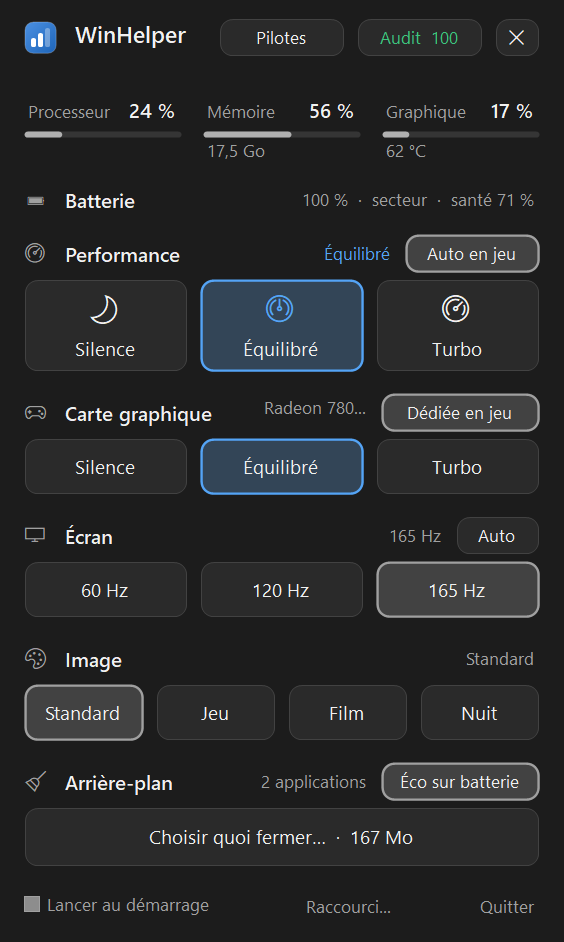
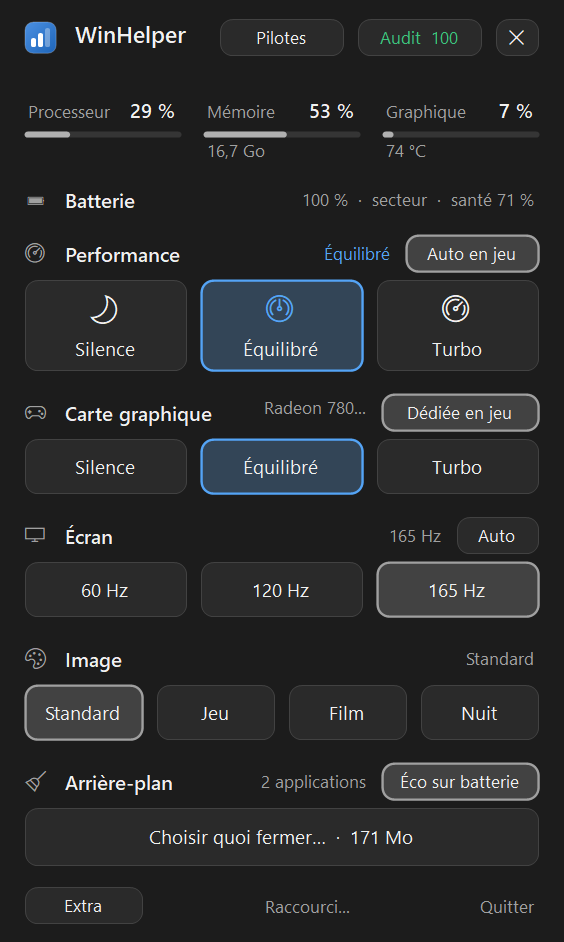
README : bouton Extra, mise à jour en un clic (0.7.0)

diff --git a/README.md b/README.md
@@ -6,7 +6,7 @@ Un petit panneau de contrôle pour Windows, pensé pour jouer : modes de perform
 
 **[Télécharger WinHelper.exe](https://github.com/badb0ol/WinHelper/releases/latest/download/WinHelper.exe)**
 
-Un seul fichier d'environ 220 Ko. Rien à installer, aucun service en arrière-plan. WinHelper tourne sans droits administrateur ; seuls deux réglages avancés, que vous choisissez vous-même, demandent l'autorisation de Windows.
+Un seul fichier d'environ 235 Ko. Rien à installer, aucun service en arrière-plan. WinHelper tourne sans droits administrateur ; seuls deux réglages avancés, que vous choisissez vous-même, demandent l'autorisation de Windows.
 
 ## Démarrer
 
@@ -28,11 +28,12 @@ Le panneau s'ouvre en bas à droite de l'écran, au-dessus des autres fenêtres.
 | **Image** | Standard, Jeu (ombres éclaircies), Film et Nuit (couleurs plus chaudes) |
 | **Arrière-plan** | Liste des applications qui tournent en fond ; vous cochez celles à fermer. Sur un portable, « Éco sur batterie » les met en mode efficacité |
 | **Pilotes** | Pilotes installés, mises à jour proposées par Windows Update, et nouvelle version de WinHelper |
+| **Extra** | Version de WinHelper et mise à jour, lancement avec Windows, réglages avancés |
 | **Audit** | Vérifie les oublis classiques : profil mémoire XMP/EXPO, écran sous sa fréquence maximale, écran branché sur la carte mère, etc. |
 
 ## Bon à savoir
 
-- **WinHelper rend ce qu'il change.** Les modes s'appliquent tant que WinHelper tourne. Quand vous le quittez ou éteignez le PC, Windows et le pilote graphique retrouvent leurs réglages d'avant ; le mode choisi revient au lancement suivant. Cochez « Lancer au démarrage » pour le garder en permanence.
+- **WinHelper rend ce qu'il change.** Les modes s'appliquent tant que WinHelper tourne. Quand vous le quittez ou éteignez le PC, Windows et le pilote graphique retrouvent leurs réglages d'avant ; le mode choisi revient au lancement suivant. Cochez « Lancer WinHelper avec Windows », dans Extra, pour le garder en permanence. Masqué, le panneau continue d'appliquer vos réglages depuis la zone de notification ; seul « Quitter » arrête WinHelper.
 - **Turbo automatique en jeu.** Quand un jeu démarre, WinHelper passe en Turbo, puis revient à votre mode quand vous le quittez. Sur batterie, rien ne change. Le bouton « Auto en jeu » l'active ou le coupe.
 - **Un mode pour le secteur, un pour la batterie.** Le mode choisi sur batterie revient quand vous débranchez, celui du secteur quand vous rebranchez.
 - **Une couleur par mode.** Vert pour Silence, bleu pour Équilibré, rouge pour Turbo. L'icône de la zone de notification prend la couleur du mode en cours et allume une, deux ou trois barres.
@@ -43,14 +44,15 @@ Le panneau s'ouvre en bas à droite de l'écran, au-dessus des autres fenêtres.
 - **Rien ne se ferme sans votre accord.** Le bouton Arrière-plan ouvre une liste ; seules les applications cochées sont fermées, et jamais une application dont une fenêtre est ouverte à l'écran. Chaque application est prévenue avant d'être fermée : si elle refuse parce qu'elle a un travail en cours, elle reste ouverte.
 - **Carte graphique.** Les modes fonctionnent avec les cartes NVIDIA et AMD (pilote Adrenalin récent). Turbo privilégie les performances maximales chez NVIDIA et active Radeon Anti-Lag chez AMD. Les réglages que vous avez faits vous-même dans le logiciel NVIDIA ou AMD sont conservés. Les cartes Intel ne sont pas encore prises en charge.
 - **Pilotes.** « À jour » signifie que Windows Update ne propose rien de plus récent. Le fabricant peut publier une version plus récente sur son site ; un pilote graphique de plus d'un an est signalé avec le lien vers cette page.
-- **Réglages avancés.** Un clic droit sur l'icône de la zone de notification, puis « Réglages avancés » :
+- **Mise à jour en un clic.** Quand une nouvelle version est publiée, le bouton Extra passe en rouge et Windows affiche une notification. « Mettre à jour », dans Extra, télécharge la nouvelle version, vérifie qu'elle est bien celle publiée ici, la met à la place de l'ancienne et la relance.
+- **Réglages avancés**, dans Extra :
   - **Planification GPU accélérée** : la carte graphique gère elle-même la file d'images. Un peu moins de latence, et elle est nécessaire à la génération d'images DLSS 3 et FSR 3.
   - **Captures de la Game Bar coupées** : Windows n'enregistre plus vos parties et ne les surveille plus pour pouvoir le faire. Le gain est modeste.
   - **Intégrité de la mémoire coupée** : quelques pour cent de plus en jeu, mais Windows ne bloque plus certains pilotes malveillants. À réserver à un PC personnel ; si un jeu ou son anti-triche la réclame, réactivez-la.
 
   La planification GPU et l'intégrité de la mémoire demandent l'autorisation de Windows (administrateur) et ne prennent effet qu'au redémarrage. WinHelper ne se relance en administrateur que le temps d'écrire ce réglage. Ces trois réglages restent en place quand vous quittez WinHelper : décochez-les pour revenir en arrière. Sur un PC géré par une entreprise, ils peuvent être bloqués.
 - **Températures.** Elles s'affichent quand Windows les fournit, ce qui dépend du PC. La vitesse des ventilateurs n'est pas affichée : la lire demande un pilote système, que WinHelper n'installe pas.
-- **Vie privée.** WinHelper n'envoie rien. Il se connecte seulement à Windows Update, quand la page Pilotes interroge le service de Windows, et à GitHub, pour savoir si une nouvelle version de WinHelper est publiée. Ces vérifications se font à l'ouverture de la page Pilotes, et au plus une fois par semaine.
+- **Vie privée.** WinHelper n'envoie rien. Il se connecte seulement à Windows Update, quand la page Pilotes interroge le service de Windows, et à GitHub : une fois par jour au plus et à l'ouverture d'Extra ou de Pilotes, pour savoir si une nouvelle version est publiée, et pour la télécharger quand vous cliquez sur « Mettre à jour ».
 - Vos choix sont gardés dans `%AppData%\WinHelper\settings.json`.
 
 ## Configuration requise
